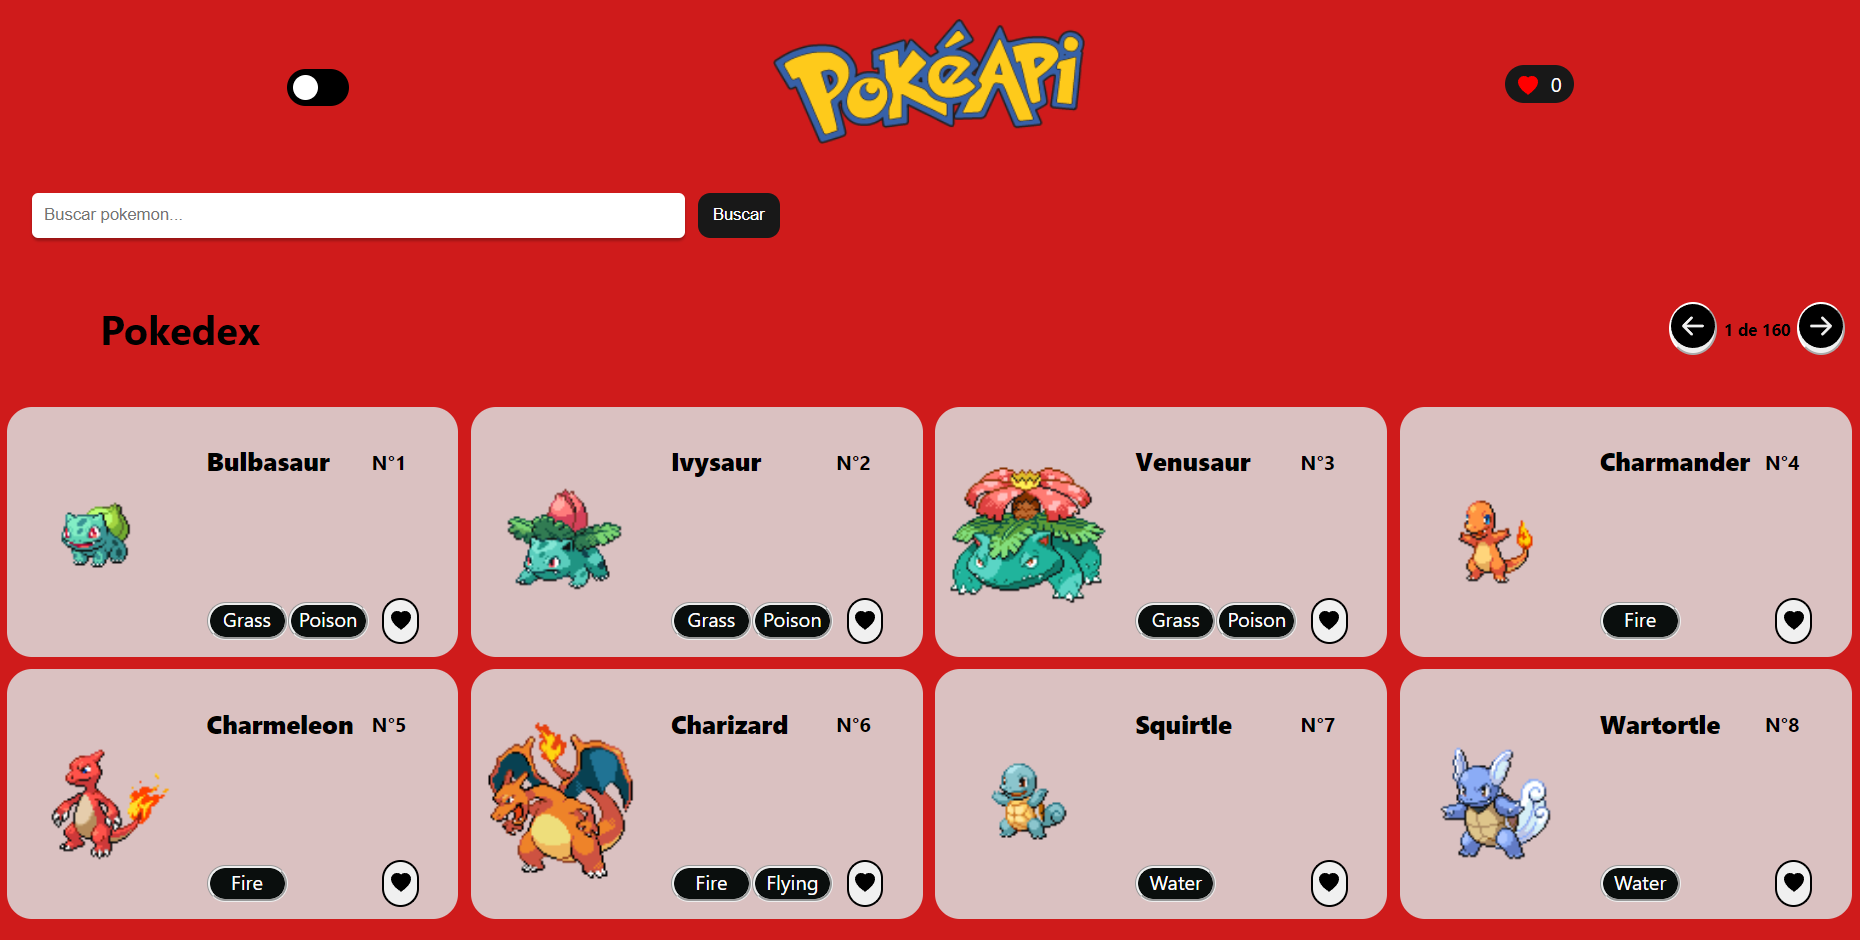
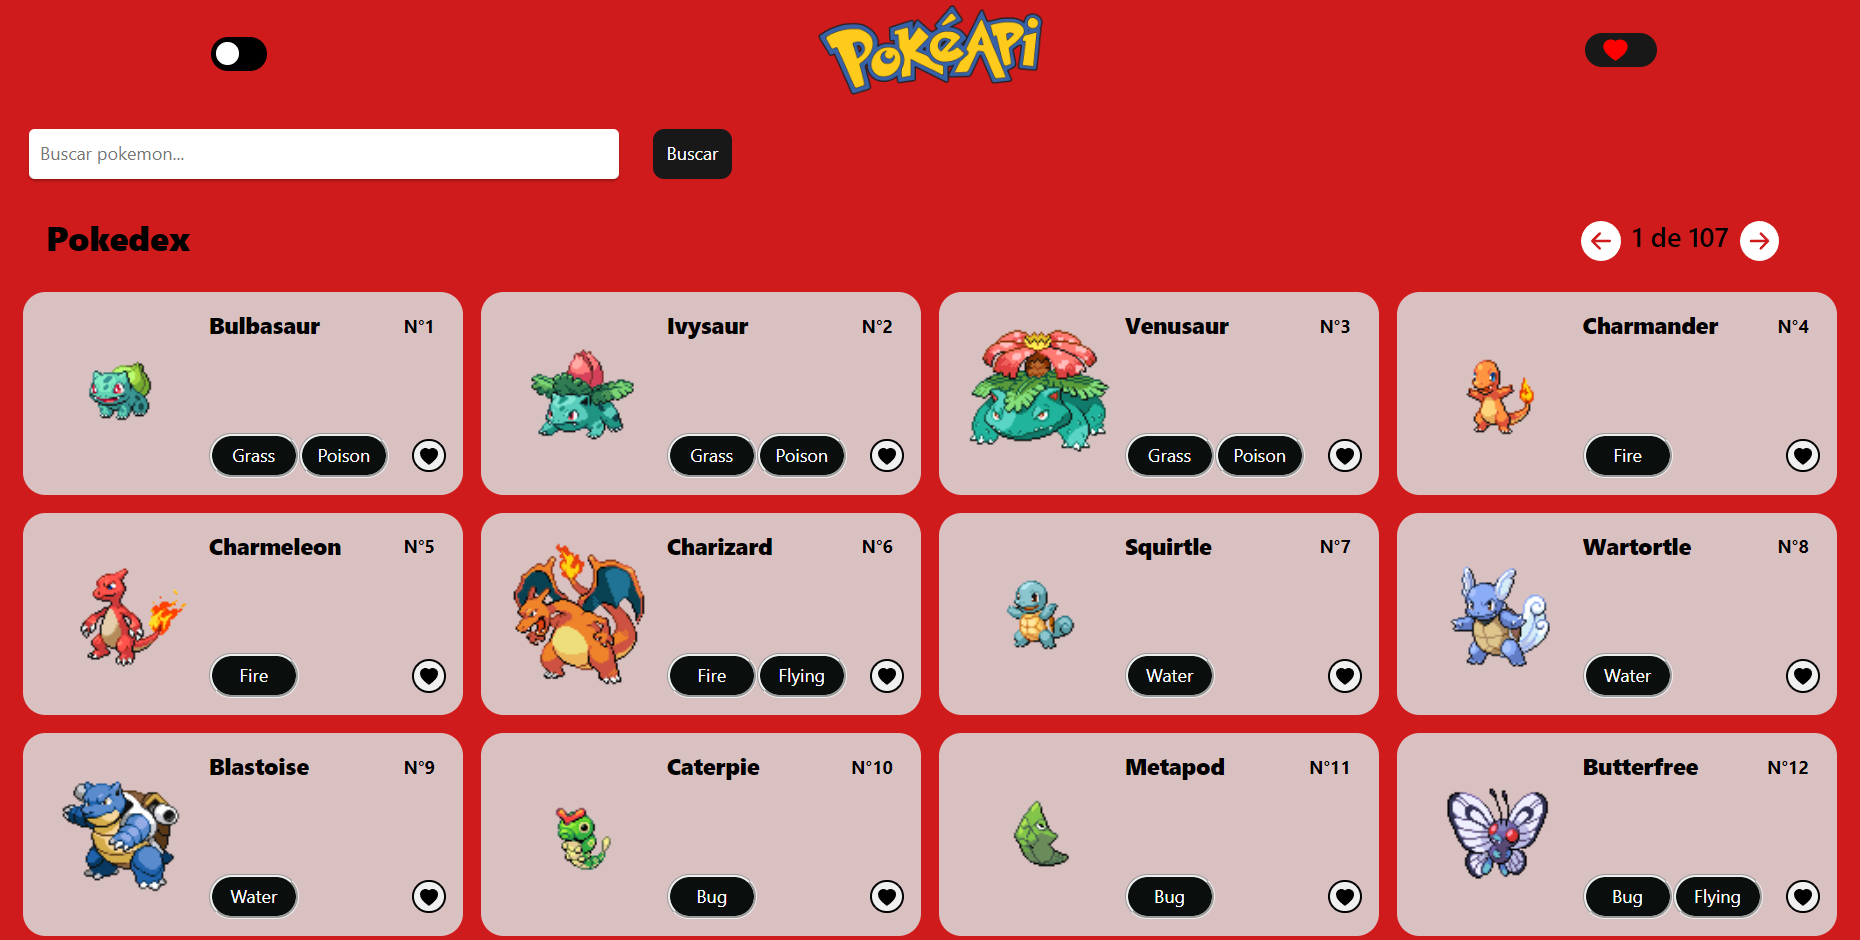
Se agregan nuevas imagenes a proyecto Pokedex

diff --git a/src/data/Projects.js b/src/data/Projects.js
@@ -1,5 +1,8 @@
 import Pokedex from "../assets/img/projects/Pokedex.png";
 import Pokedex1 from "../assets/img/projects/Pokedex1.png";
+import Pokedex2 from "../assets/img/projects/Pokedex2.png";
+import Pokedex3 from "../assets/img/projects/Pokedex3.png";
+import Pokedex4 from "../assets/img/projects/Pokedex4.png";
 import PPTLS from "../assets/img/projects/PPTLS.png";
 import PPTLS1 from "../assets/img/projects/PPTLS1.png";
 import PPTLS2 from "../assets/img/projects/PPTLS2.png";
@@ -46,7 +49,7 @@ const projects = [
     {
       id: 1,
       image: Pokedex,
-      images: [Pokedex1, PPTLS2, PPTLS3, PPTLS4, PPTLS5, PPTLS6, PPTLS7], 
+      images: [Pokedex1, Pokedex2, Pokedex3, Pokedex4 ], 
       link1: "https://pokedex-web-self.vercel.app",
       link2: "https://github.com/fabriciomarote/Pokedex",
       title: "Pokedex",

diff --git a/src/styles/Project.css b/src/styles/Project.css
@@ -41,7 +41,7 @@
 
 .arrow-right {
     position: absolute;
-    top: 35%;
+    top: 36%;
     right: 410px;
     font-size: 3.5rem;
     z-index: 10;
@@ -51,7 +51,7 @@
   
   .arrow-left {
     position: absolute;
-    top: 35%;
+    top: 36%;
     left: 410px;
     font-size: 3.5rem;
     z-index: 10;
